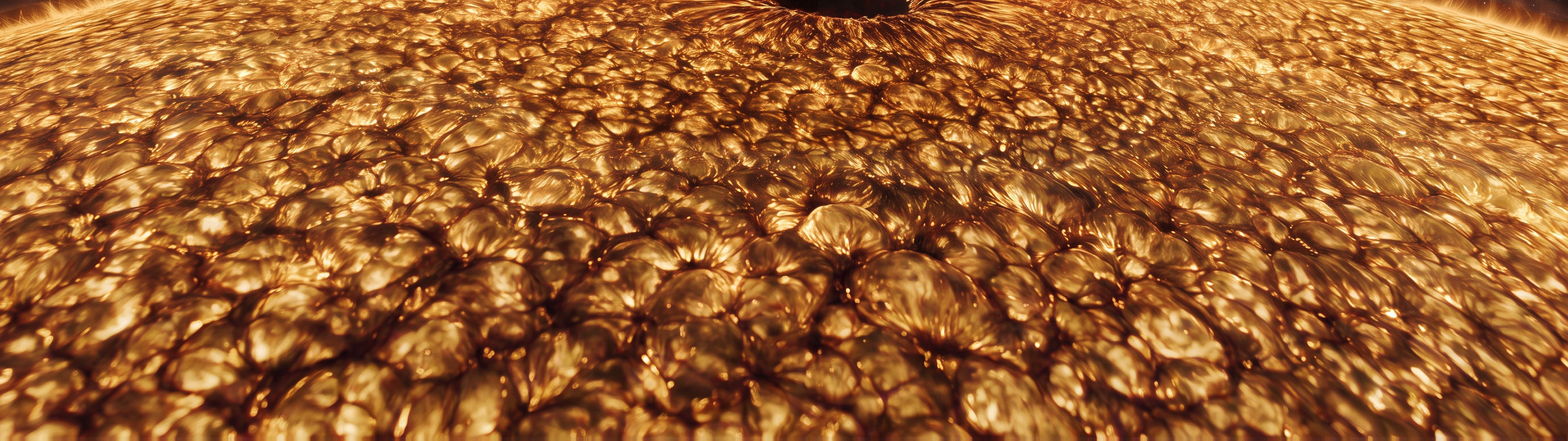
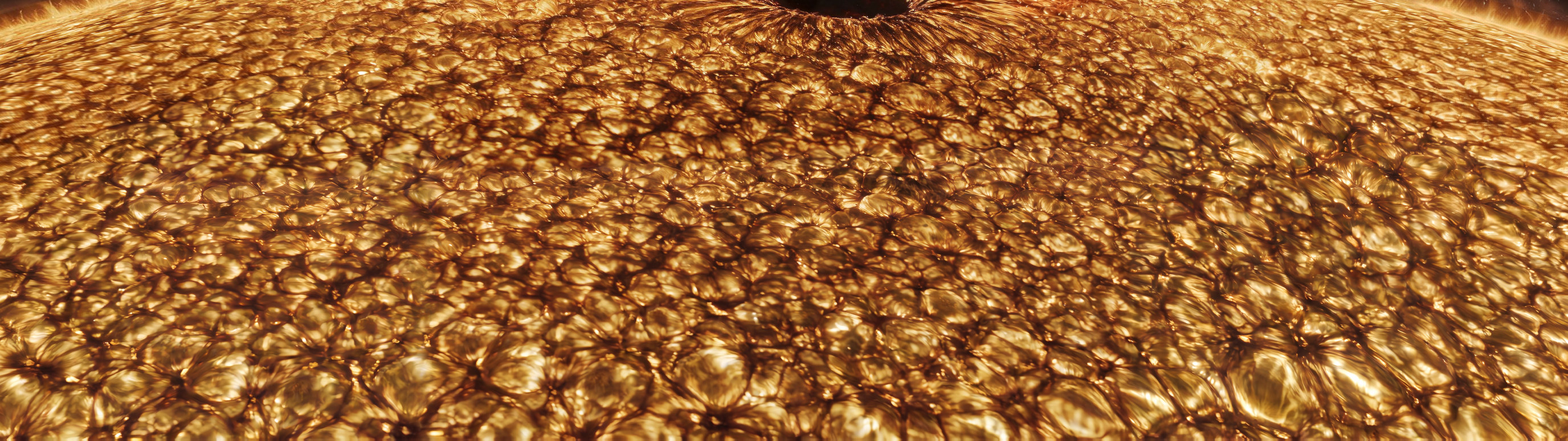
Sun: foreground apron painted again in three tiles at true cell size (no scale jump on frame 60, twice the painted resolution)

diff --git a/assets-src/sun/terrain/apron2.py b/assets-src/sun/terrain/apron2.py
@@ -1,0 +1,96 @@
+import json, sys
+import numpy as np
+import cv2
+from common import WORK, read, write, step
+from apron import weights
+
+OUT = (5504, 1548)
+TILE = 2752
+AT = {'C': 1376, 'L': 0, 'R': 2752}
+GREY_FROM = 0.4
+MARGIN = 160
+CANVAS = f'{WORK}/apron2-canvas.png'
+DONE = f'{WORK}/apron2-done.png'
+
+
+def weight():
+    w, _ = weights((OUT[0] // 2, OUT[1]))
+    return cv2.resize(w[OUT[1] // 2:], OUT, interpolation=cv2.INTER_LINEAR)
+
+
+def start():
+    base = read(f'{WORK}/apron2-base-low-x.png')
+    assert base.shape[1] == OUT[0] and base.shape[0] == OUT[1], base.shape
+    write(CANVAS, base)
+    write(DONE, np.zeros((OUT[1], OUT[0], 3), np.uint8))
+    w = weight()
+    print('grey share of the lower half', round(float((w >= GREY_FROM).mean()), 3))
+
+
+def tile_input(name):
+    x = AT[name]
+    canvas = read(CANVAS)
+    done = read(DONE)[..., 0] > 0
+    grey = (weight() >= GREY_FROM) & ~done
+    out = canvas.copy()
+    out[grey] = 128
+    write(f'{WORK}/apron2-input-{name}.png', out[:, x:x + TILE])
+    write(f'{WORK}/apron2-grey-{name}.png', np.repeat((grey[:, x:x + TILE] * 255).astype(np.uint8)[..., None], 3, -1))
+    print(name, 'grey share of the tile', round(float(grey[:, x:x + TILE].mean()), 3))
+
+
+def place(name):
+    x = AT[name]
+    src = read(f'{WORK}/apron2-input-{name}.png')
+    grey = read(f'{WORK}/apron2-grey-{name}.png')[..., 0] > 0
+    take = read(f'{WORK}/apron2-take-{name}.png')
+    h, w = src.shape[:2]
+    take = cv2.resize(take, (w, h), interpolation=cv2.INTER_LANCZOS4)
+    keep = cv2.erode((~grey).astype(np.uint8) * 255, np.ones((41, 41), np.uint8))
+    k = 4
+    small = lambda a, i: cv2.resize(a, (w // k, h // k), interpolation=i)
+    g0 = small(cv2.cvtColor(src, cv2.COLOR_RGB2GRAY), cv2.INTER_AREA).astype(np.float32) / 255
+    g1 = small(cv2.cvtColor(take, cv2.COLOR_RGB2GRAY), cv2.INTER_AREA).astype(np.float32) / 255
+    warp = np.eye(2, 3, dtype=np.float32)
+    cc, warp = cv2.findTransformECC(g0, g1, warp, cv2.MOTION_AFFINE, (cv2.TERM_CRITERIA_EPS | cv2.TERM_CRITERIA_COUNT, 300, 1e-7), small(keep, cv2.INTER_NEAREST), 5)
+    warp[:, 2] *= k
+    moved = cv2.warpAffine(take, warp, (w, h), flags=cv2.INTER_CUBIC | cv2.WARP_INVERSE_MAP, borderMode=cv2.BORDER_REPLICATE)
+    m = keep > 0
+    a = src[m].astype(np.float64).mean(0)
+    b = moved[m].astype(np.float64).mean(0)
+    diff = float(np.abs(src[m].astype(np.float64) - moved[m]).mean())
+    o = moved.astype(np.float32)
+    hot = step(o.max(axis=2), 170, 245)[..., None]
+    moved = np.clip(o * ((a / b)[None, None, :] * (1 - hot) + hot), 0, 255)
+    alpha = np.clip(cv2.GaussianBlur(grey.astype(np.float32), (0, 0), 8) * 2, 0, 1)[..., None]
+    canvas = read(CANVAS)
+    canvas[:, x:x + w] = np.clip(canvas[:, x:x + w] * (1 - alpha) + moved * alpha, 0, 255).astype(np.uint8)
+    write(CANVAS, canvas)
+    done = read(DONE)
+    inner = grey.copy()
+    if name == 'C':
+        inner[:, :MARGIN] = False
+        inner[:, w - MARGIN:] = False
+    done[:, x:x + w][inner] = 255
+    write(DONE, done)
+    json.dump({'matrix': warp.tolist(), 'cc': float(cc), 'means': [a.tolist(), b.tolist()], 'kept difference': diff}, open(f'{WORK}/apron2-place-{name}.json', 'w'))
+    print(name, 'cc', round(float(cc), 4), 'matrix', warp.round(4).tolist(), 'kept ground: mean abs difference', round(diff, 2), 'means', a.round(1), b.round(1))
+
+
+def build():
+    out = read(CANVAS)
+    for name, size, q in (('full', OUT, 92), ('web', (OUT[0] // 2, OUT[1] // 2), 88)):
+        write(f'public/assets/sun/{name}/apron.jpg', out if size == OUT else cv2.resize(out, size, interpolation=cv2.INTER_AREA), q)
+    print('apron', OUT)
+
+
+if __name__ == '__main__':
+    cmd = sys.argv[1]
+    if cmd == 'start':
+        start()
+    if cmd == 'input':
+        tile_input(sys.argv[2])
+    if cmd == 'place':
+        place(sys.argv[2])
+    if cmd == 'build':
+        build()

diff --git a/assets-src/sun/RECIPE.md b/assets-src/sun/RECIPE.md
@@ -114,17 +114,18 @@ Shared inputs:
 
 ### public/assets/sun/<set>/apron.jpg (the foreground plate, painted in the view of frame 0)
 
+- What it is: the near ground that the approved image does not show (the camera of frame 0 is 1.45 camera heights behind and 0.52 above the approved pose). It is projected from the frozen camera of frame 0 and mixed in outside the approved frame.
 - Output: `apron.jpg` 5504 x 1548 (rows 0.5 to 1 of the picture of frame 0) and 2752 x 774, JPEG 92 and 88, 4:4:4.
-- Why: before frame 75 the camera is higher and further back than the approved pose and sees ground the approved image does not hold (71 percent of the ground at frame 0, 39 percent at frame 60). The wide take that covered it was 1672 px wide and not true to the ground, so the foreground of frame 0 was soft and stretched. This plate is painted in the view of frame 0 and projected onto the ground from the camera of frame 0, the same way the main plate is projected from the approved camera.
-- `src/stops/sun/apron.json`: `npx tsx assets-src/sun/terrain/apron-pose.ts`, the camera of frame 0 at the time of the take (position, quaternion, field of view), the first row kept, the reach on the ground (full within 3.0 camera heights of the point under that camera, gone at 3.6) and the feather inside the approved frame (0.04 of the frame). The projector does not follow the plan: if the terrain move changes, frame 0 no longer gives the painting back exactly, and the take should be made again.
-- Base picture: `out/work/sun/apron-base.png`, frame 0 at the draft tier without grain (`npm run still -- --frame 0 --tier draft --diag nograin`), with `look.ground.boil.reach` 0, `look.ground.twinkle.amount` 0 and `look.ground.apron.amount` 0.
-- Model input: `out/work/sun/apron-input.png` from `PYTHONPATH=assets-src/sun/terrain python3 assets-src/sun/terrain/apron.py mask`: the base at 2816 x 1584 with flat grey 128 wherever the apron weight is 0.4 or more (35 percent of the frame).
-- Tool and model: `generate_image`, model `nano_banana_pro`, aspect 16:9, images: 1 `out/work/sun/apron-input.png`, 2 `references/approved/sun-close.jpg`.
-- Prompt, exact: "Image 1 is a film frame of the surface of the Sun in which the lower part has been painted out with flat grey. Fill the whole grey area by continuing the picture downward seamlessly, so the result is one single finished picture with no visible seam and no grey left anywhere. The grey area is the foreground of the same boiling golden solar surface: granulation cells of the same look, color, contrast and lighting as the cells just above the grey edge, each cell a rounded swollen dome of glowing plasma with a bright golden crown, fine wispy filaments on its skin, small white-hot glints, and narrow dark brown lanes between the cells. The ground is one continuous curved surface that comes closer to the camera toward the bottom of the picture, so the cells grow steadily larger toward the bottom edge: just below the grey edge they are the same size as the cells above it, at the bottom edge they are about three times as large. Every cell is crisp and sharply detailed, in full focus, with no blur, no smearing, no stretching and no haze. Image 2 is a style reference from the same film: the cells in its foreground show the exact look, sharpness and richness that the new foreground cells must have. Keep the upper part of image 1 exactly as it is, same position and size: the black sky with stars and the Milky Way, the curved glowing horizon, the dark sunspot, the arch of golden plasma strands and its two bright feet, and all the ground that is already visible. No new sunspots, no new arcs, no new light sources, no text, no border, no vignette, no depth of field blur."
-- Takes: 2 of 6. Take 1 (`out/work/sun/apron-fill-take1.png`, model `seedream_5`, same prompt and images) repainted the whole frame and moved the horizon, not used. Take 2 (`out/work/sun/apron-fill-take2.png`, 2752 x 1536) kept the upper part in place and is the one kept.
-- Build: `PYTHONPATH=assets-src/sun/terrain python3 assets-src/sun/terrain/apron.py register` (affine placement of the take on the base over the kept ground, ECC, correlation 0.93: the take is the base cropped by 0.8 percent in height), `python3 tools/ml/upscale.py --in out/work/sun/apron-crop.png --out out/work/sun/apron-crop-x2.png --width 5504` (rows from 0.44 down), `PYTHONPATH=assets-src/sun/terrain python3 assets-src/sun/terrain/apron.py build` (placed on the grid of frame 0, channel means matched to the base over the kept ground; the match fades out for pixels brighter than 170 to 245 of 255, so white glints stay white and do not turn green).
+- `src/stops/sun/apron.json`: `npx tsx assets-src/sun/terrain/apron-pose.ts`, the camera of frame 0 at the time of the take (position, quaternion, field of view), the first row kept, the reach on the ground (full within 3.0 camera heights of the point under that camera, gone at 3.6) and the feather inside the approved frame (0.04 of the frame). The projector does not follow the plan: if the terrain move changes, frame 0 no longer gives the painting back exactly, and the takes should be made again.
+- Base picture: `out/work/sun/apron-base.png`, frame 0 at the draft tier without grain (`npm run still -- --frame 0 --tier draft --diag nograin`), with `look.ground.boil.reach` 0, `look.ground.twinkle.amount` 0 and `look.ground.apron.amount` 0. Its lower half (rows 540 to 1079) is enlarged to 5504 x 1548: `python3 tools/ml/upscale.py --in out/work/sun/apron2-base-low.png --out out/work/sun/apron2-base-low-x.png --width 5504`.
+- Painted in three tiles of 2752 x 1548 on that canvas, so the plate holds 2.87 painted pixels for each pixel of frame 0 (the first version was one take of the whole frame, 1.43, enlarged). Script: `assets-src/sun/terrain/apron2.py`, run with `PYTHONPATH=assets-src/sun/terrain`: `start`, then for the tiles C (columns 1376 to 4127), L (0 to 2751) and R (2752 to 5503): `input NAME` (the canvas with flat grey 128 wherever the apron weight is 0.4 or more and nothing is painted yet), one generation, `place NAME` (affine placement of the take on the tile over the kept ground by ECC, channel means matched over the kept ground with the match fading out above 170 to 245 of 255, pasted into the grey area with a soft edge), then `build`. L and R see the finished centre in their inner half, less a margin of 160 px that they paint again, so cells run on across the tile borders.
+- Tool and model: `generate_image`, model `nano_banana_pro`, aspect 16:9, images: the tile input only.
+- Prompt for tile C, exact: "This picture is part of a film frame of the surface of the Sun in which the lower part has been painted out with flat grey. Fill the whole grey area by continuing the picture downward seamlessly, so the result is one single finished picture with no visible seam and no grey left anywhere. The grey area is the foreground of the same boiling golden solar surface: granulation cells of the same look, color, contrast and lighting as the cells just above the grey edge, each cell a rounded swollen dome of glowing plasma with a bright golden crown, fine wispy filaments on its skin, small white-hot glints, and narrow dark brown lanes between the cells. The ground is one continuous surface that comes only a little closer to the camera toward the bottom of the picture, so the cells grow only slightly and steadily toward the bottom edge: just below the grey edge they are exactly the same size as the cells above it, and at the bottom edge of the picture they are about one and a half times as large. There are no giant cells anywhere: the grey area holds many hundreds of small cells, nothing else. Every cell is crisp and sharply detailed, in full focus, with no blur, no smearing, no stretching and no haze. Keep everything outside the grey area exactly as it is, same position and size: the dark sunspot at the top edge stays the only sunspot in the picture. No second sunspot, no dark holes, no radial filament patterns in the new area, no arcs, no new light sources, no horizon, no sky, no text, no border, no vignette, no depth of field blur. Wide 16:9 picture."
+- Prompt for tiles L and R, exact, with SIDE = left or right: "This picture is part of a film frame of the surface of the Sun in which a large area at the lower SIDE has been painted out with flat grey. Fill the whole grey area by continuing the picture seamlessly, so the result is one single finished picture with no visible seam and no grey left anywhere. The grey area is more of the same boiling golden solar surface: granulation cells of the same look, color, contrast and lighting as the cells that border the grey area, each cell a rounded swollen dome of glowing plasma with a bright golden crown, fine wispy filaments on its skin, small white-hot glints, and narrow dark brown lanes between the cells. The ground is one continuous surface that comes only a little closer to the camera toward the bottom of the picture: at every height of the picture the new cells are the same size as the finished cells beside the grey area at that height, small near the top of the grey area and about one and a half times as large at the bottom edge of the picture. There are no giant cells anywhere: the grey area holds many hundreds of cells, nothing else. Cells that are cut by the grey edge continue naturally into the new area. Every cell is crisp and sharply detailed, in full focus, with no blur, no smearing, no stretching and no haze. Keep everything outside the grey area exactly as it is, same position and size. No sunspot, no dark holes, no radial filament patterns in the new area, no arcs, no new light sources, no horizon, no sky, no text, no border, no vignette, no depth of field blur. Wide 16:9 picture."
+- Takes in round 10: 4 of 6. Tile C take 1 (`out/work/sun/apron2-take-C-rejected1.png`, with the lower half of the approved image as a second picture for style) pasted that picture into the grey area, with a second sunspot: not used, and no style picture since. Tile C take 2, tile L take 1 and tile R take 1 are kept (`out/work/sun/apron2-take-C.png`, `-L.png`, `-R.png`). Placement: correlation 0.996, 0.995, 0.998; each take is the tile cropped by 0.8 percent in height.
+- Why it replaced the first version (one take of the whole frame, 2 takes before the round, `assets-src/sun/terrain/apron.py register` and `build`): that prompt asked for cells three times as large at the bottom edge. The true growth from the edge of the approved ground to the bottom of frame 0 is 1.4 in width (distance 2.6 to 1.87 camera heights). On frame 60 the painted cells below row 935 were about 2.5 times the size of the approved cells just above them, and soft (0.7 painted pixels for each frame pixel).
 - Earlier tries, not shipped: two top-down granulation fields (`out/work/sun/apron-take1.png` with `seedream_5`, `out/work/sun/apron-take2.png` with `nano_banana_pro`), whose cells did not look like the cells of the approved image.
-- Checks: frame 0 with the base itself as the apron gives the base back in place; native crops of the lower corners of frames 0, 30 and 60; frame 90 unchanged.
+- Checks: frame 0 with the base itself as the apron gives the base back in place; native crops of the lower part of frames 0, 30 and 60; frame 90 unchanged.
 
 ### public/assets/sun/<set>/sky-terrain.webp
 

diff --git a/assets-src/sun/NOTES.md b/assets-src/sun/NOTES.md
@@ -190,3 +190,11 @@ Sky card, infinity only (Builder note 2):
 - Cause 2, the twinkle: its phase was the plate's luminance times 60, so away from frame 90 it drew contour rings inside each cell (the same fault the globe had). Now it is value noise on the ground plane in a third time dimension: `vnoise(g * spread, t * rate) - vnoise(g * spread, 0)` plus one finer octave, `twinkle = { amount 0.5, rate 0.9, spread 4 }`. Cells brighten and dim by about 15 percent, no rings. Two texture reads fewer per pixel.
 - Frame 90 is byte identical to before (both terms are zero at the judged frame).
 - Still open on frame 60: below row 935 the apron's painted cells are about 2.5 times larger than the approved cells just above them and softer (0.7 real pixels per frame pixel). Next: a plate painted from the frame 60 camera for that band.
+
+## Apron painted again, true cell size, three tiles (08:53 to 09:05 UTC)
+
+- Fault on frame 60 (and on frame 0, less plain): below row 935 the painted cells were about 2.5 times the size of the approved cells right above them, and soft. Cause: my own prompt for the first apron asked for cells "three times as large" at the bottom edge. `out/work/sun/dist.ts` gives the true numbers: the ground at the edge of the approved image is 2.6 camera heights from the frame 0 camera, the ground at the bottom row 1.87, so cells grow 1.4 times in width. On frame 60: 1.70 to 1.52, growth 1.12.
+- New plate: same projector (`apron.json`, frame 0 camera), same file name and size, but painted in three tiles of 2752 x 1548 on a 5504 x 1548 canvas (`assets-src/sun/terrain/apron2.py`: `start`, `input C`, generate, `place C`, then L and R, `build`). 2.87 painted pixels for each pixel of frame 0, about 1.4 for each pixel of the near band on frame 60 (was 0.7).
+- Tile C take 1 with the lower half of the approved image as a style picture pasted that picture into the grey area (a second sunspot). Lesson: no style picture that has the same layout as the tile. Take 2 without it is kept; L and R first takes kept. 4 of 6 takes in this round.
+- Checked at draft: frames 0, 30, 60 lower parts at native size, no scale jump, no seam between tiles, 0 and 1 green pixels. Frame 80 texels: 0 soft, lowest rate 1.41 (as before). Frame 90 unchanged (never sees the apron).
+- Rise sheet at review with the reworked flare viewed: feet erupt at 204, gold cover with the arcade inside at 212 and the disc inside at 220, kernel on the disc at 229, gone by 245. Reads as one move.
